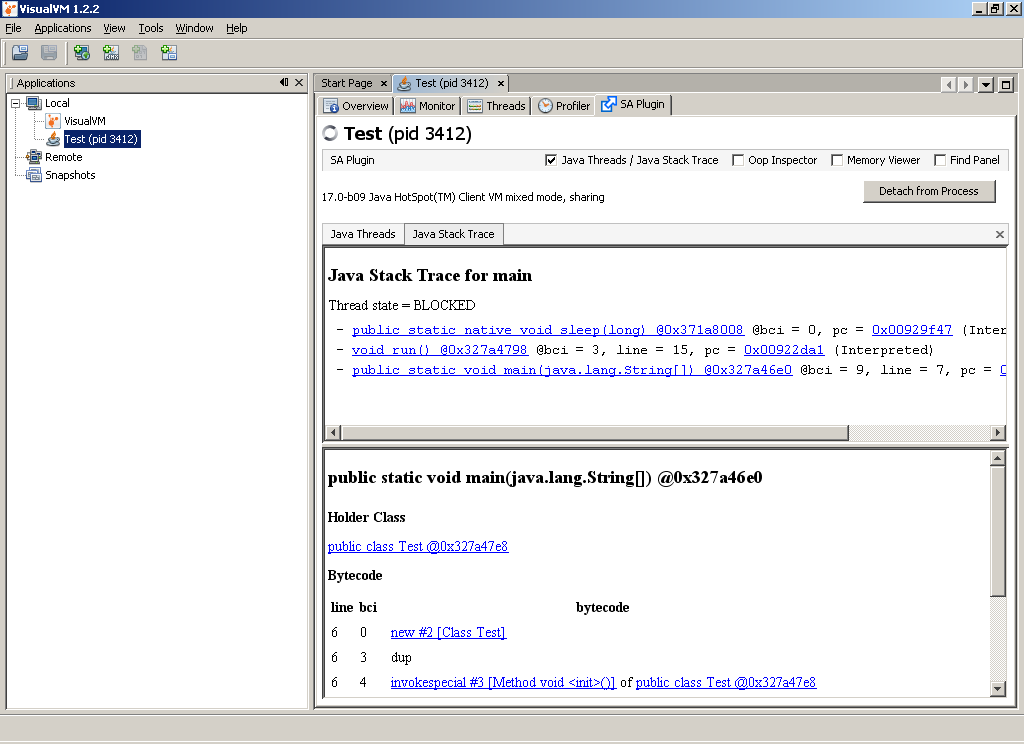
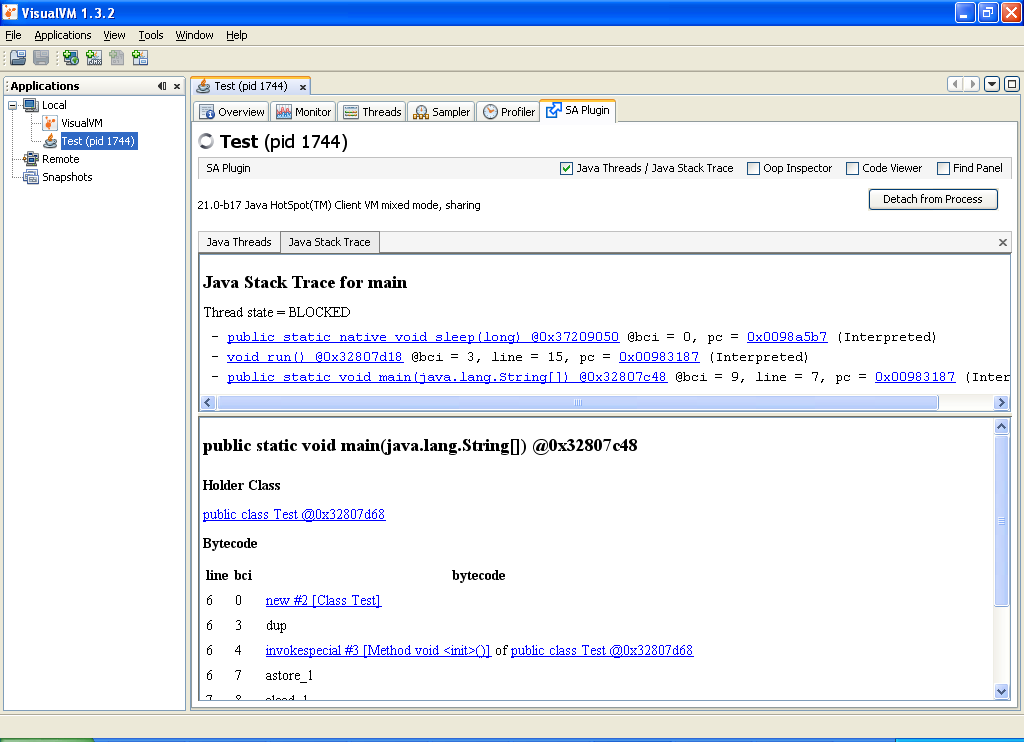
Updated SAPlugin documentation

diff --git a/trunk/www/saplugin.html b/trunk/www/saplugin.html
@@ -46,41 +46,37 @@
             
             <h1>SA-Plugin for VisualVM</h1>
 <p>
-SA Plugin makes Serviceability Agent's features and utilities available in VisualVM. Serviceability Agent is an out-of-process snapshot debugger for Hotspot Java Virtual Machine. It can be used to explore Java Objects and Hotspot Data Structures in running processes as well as core files. More details here: 
+SA-Plugin makes key features and utilities of Serviceability Agent available in VisualVM. Serviceability Agent is an out-of-process snapshot debugger for Hotspot Java Virtual Machine. It can be used to explore Java Objects and Hotspot Data Structures in running processes as well as core files. More details here:
 <a href=http://www.usenix.org/events/jvm01/full_papers/russell/russell_html/index.html> http://www.usenix.org/events/jvm01/full_papers/russell/russell_html/index.html</a> </p>
 
 <p> SA-Plugin brings those powerful features of Serviceability Agent to VisualVM - All-in-One Java Troubleshooting Tool. This Plugin makes SA utilities available in the following four panels in VisualVM:</p>
 <p>
 <b>Java Threads / Java Stack Trace: </b>
 <ul>
-<li>
-It shows all the Java Threads in the process. </li>
-<li> Double click on any thread or clicking on the 'Open Inspector' icon on Java Threads Panel shows internal details of the thread object in another 'Oop Inspector' panel. </li>
-<li> Clicking on the 'Show Stack Trace' icon on Java Threads Panel shows thread's stack trace. </li>
+<li>This panel shows all the Java Threads in the process. </li>
+<li> Double-click on any thread or clicking the 'Open Inspector' icon on Java Threads Panel brings up 'Oop Inspector' panel that shows internal details of the thread object. </li>
+<li> Clicking on the 'Show Stack Trace' icon on Java Threads Panel shows the stack trace of the selected thread. </li>
 </ul>
 </p>
 
 <p>
 <b>Oop Inspector: </b>
 <ul>
-<li>All the java objects in hotspot VM are represented as Oops - 'Ordinary Object Pointer'.  The 'Oop Inspector' panel shows details of Oops. The ability to see all the internal fields of any java object provides a great debugging help. </li>
-<li>This also provides the ability to 'compute the liveness' of any Oop in the Java Heap.</li>
+<li>All the java objects in Hotspot VM are represented as Oops - 'Ordinary Object Pointer'.  The 'Oop Inspector' panel shows details of Oops. The ability to see all the internal fields of any java object provides a great debugging help. </li>
 </ul>
 </p>
 
 <p>
-<b>Memory Viewer: </b>
+<b>Code Viewer: </b>
 <ul>
-<li>Shows values at any address in the Java Heap</li>
+<li>Shows method/klass object if the given address is methodOop/klassOop, and compiled code if the given address is PC in compiled code.</li>
 </ul>
 </p>
 
 <p>
 <b>Find Panel: </b>
 <ul>
-<li>Find Address in Heap: Shows where all the given address is assessed in Java Heap</li>
-<li>Find Address in CodeCache :  Shows where all the given address is assessed in Compiler's codecache.</li>
-<li>Find Pointer: Find where a pointer lies in Java Heap. e.g 
+    <li>Find Pointer: Shows where a pointer lies in process memory e.g
 </p>
 <p><i><center>
 Address 0x10100088: In new generation   eden [0x10010000,0x1001e950,0x100f0000) space capacity = 917504, 6.509835379464286 used
@@ -88,12 +84,14 @@ Address 0x10100088: In new generation   eden [0x10010000,0x1001e950,0x100f0000) 
   to   [0x100f0000,0x100f0000,0x10100000) space capacity = 65536, 0.0 used
 </p></i></center>
 </li>
+<li>Find Value in Heap: Shows all the locations where the given address is referenced in Java Heap</li>
+<li>Find Value in CodeCache :  Shows all the locations where the given address is referenced in compiler codecache.</li>
 </ul>
 
 <p>
 <b> How to install SAPlugin: </b>
 <ul>
-<li> In VisualVM main menu choose Tools | Plugins, Plugins dialog is opened. </li>
+<li> In VisualVM main menu, choose Tools | Plugins, Plugins dialog is opened. </li>
 <li> Switch to Available Plugins tab and select SAPlugin. </li>
 <li> Click the Install button, review and accept SAPlugin license and wait for the plugin to be downloaded and installed. </li>
 </ul>
@@ -107,21 +105,21 @@ e.g. on Solaris-Sparc sa-jdi.jar and libsaproc.so should be present in lib/ and 
 folders respectively. 
 </li>
 <li> Double click the process in VisualVM. With SAPlugin installed, 'SA Plugin' tab will also appear in VisualVM.</li>
-<li> In 'SA Plugin' tab, click on 'Attach to Process'. This will attach serviceability agent to the process and will bring up 'Java Threads Panel' and also other three panels in hidden mode. Please note that this might take few seconds.<br>
+<li> In 'SA Plugin' tab, click on 'Attach to Process'. This will attach Serviceability Agent to the process and will bring up 'Java Threads Panel' and also other three panels in hidden mode. Please note that this might take few seconds.<br></li>
 <img src="images/saplugin_1.png"/>
-</li>
-<li> Other tabs for the attached process will not be usable as long as SA Plugin is attached to the process, so one needs to detach SA Plugin from the process before using it's other tabs in VisualVM. When SA Plugin gets attached to the process, a message box is shown with this information.<br>
+
+<li> Other tabs for the attached process will not be usable as long as SAPlugin is attached to the process, so one needs to detach SA Plugin from the process before using its other tabs in VisualVM. When SA Plugin gets attached to the process, a message box is shown with this information.<br>
 <img src="images/saplugin_2.png"/>
 </li>
-<li> Now, one can look at Java Threads, their stack traces, look at any Oop, search any address in heap and look at disassembly at any address etc. </li>
+<li> Now, one can look at Java Threads, their stack traces, look at any Oop, search any address in heap and look at the compiled code at any address etc. </li>
 <li> Click on 'Detach from Process' to detach it from the process. </li>
-</li> SAPlugin also works with core dumps in VisualVM.
+<li>SAPlugin also works with core dumps in VisualVM.</li>
 </ul>
 </p>
 
 <p>
 <b>JDK versions supported</b> <br>
-- 1.7.0-b64 and later on all platforms.   <br>
+- 1.7.0 on all platforms.   <br>
 - 6u17 and later on Solaris and Linux (because SA binaries are not shipped with jdk6 on Windows)
 </p>
 <br>
@@ -134,10 +132,10 @@ folders respectively.
 <b>Oop Inspector</b><br>
 <img src="images/saplugin_5.png" />
 <br><br>
-<b>Memory Viewer</b><br>
+<b>Code Viewer</b><br>
 <img src="images/saplugin_6.png" />
 <br><br>
-<b>Find Address Panel</b><br>
+<b>Find Panel</b><br>
 <img src="images/saplugin_7.png" />
 
            
